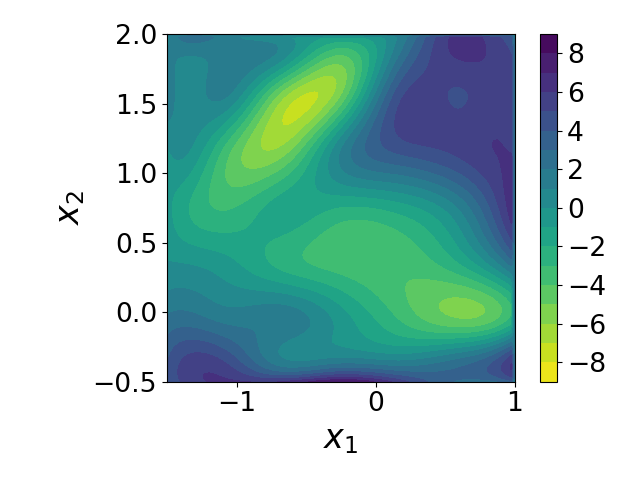
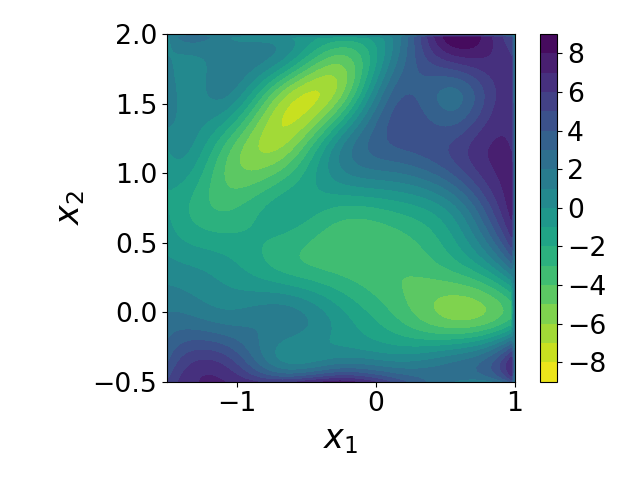
make an animation of learned Muller potential over training steps

diff --git a/examples/MullerPotential/script/main.py b/examples/MullerPotential/script/main.py
@@ -173,9 +173,11 @@ x1_noise = torch.rand(n_noise) * (x1_max - x1_min) + x1_min
 x2_noise = torch.rand(n_noise) * (x2_max - x2_min) + x2_min
 x_noise = torch.stack((x1_noise, x2_noise), dim=1)
 
-#### learn an energy function
-import PC
 
+#### learn an energy function
+import sys
+sys.path.append("../../")
+import pccg
 
 def compute_2d_cubic_spline_basis(
     x, M1=10, M2=10, x1_limits=(x1_min, x1_max), x2_limits=(x2_min, x2_max)
@@ -196,8 +198,8 @@ def compute_2d_cubic_spline_basis(
     boundary_knots_x1 = torch.tensor([x1_min, x1_max])
     boundary_knots_x2 = torch.tensor([x2_min, x2_max])
 
-    basis_x1 = PC.spline.bs(x[:, 0], knots_x1, boundary_knots_x1)
-    basis_x2 = PC.spline.bs(x[:, 1], knots_x2, boundary_knots_x2)
+    basis_x1 = pccg.spline.bs(x[:, 0], knots_x1, boundary_knots_x1)
+    basis_x2 = pccg.spline.bs(x[:, 1], knots_x2, boundary_knots_x2)
 
     basis = basis_x1[:, :, None] * basis_x2[:, None, :]
     basis = basis.reshape(-1, M1 * M2)
@@ -208,26 +210,32 @@ basis_data = compute_2d_cubic_spline_basis(x_data)
 basis_noise = compute_2d_cubic_spline_basis(x_noise)
 log_q_data = compute_log_q(x_data)
 log_q_noise = compute_log_q(x_noise)
-theta, dF = PC.NCE(log_q_noise, log_q_data, basis_noise, basis_data)
 
-#### plot the learned energy function
-basis_grid = compute_2d_cubic_spline_basis(x_grid)
-U_grid = torch.matmul(basis_grid, theta)
-U_grid = U_grid.reshape((grid_size, grid_size))
 
-U_grid = U_grid - U_grid.min() + U.min()
-U_grid[U_grid > 9] = 9
-fig, axes = plt.subplots()
-plt.contourf(
-    U_grid.T.numpy(),
-    levels=np.linspace(-9, 9, 19),
-    extent=(x1_min, x1_max, x2_min, x2_max),
-    cmap=cm.viridis_r,
-)
-plt.xlabel(r"$x_1$", fontsize=24)
-plt.ylabel(r"$x_2$", fontsize=24)
-plt.colorbar()
-axes.set_aspect("equal")
-plt.tight_layout()
-plt.savefig("./data/learned_potential.png")
-plt.close()
+for max_iter in range(0, 30, 1):
+    print("max_iter = ", max_iter, flush=True)
+    theta, dF = pccg.NCE(log_q_noise, log_q_data, basis_noise, basis_data,
+                        options = {"maxiter": max_iter})
+
+    #### plot the learned energy function
+    basis_grid = compute_2d_cubic_spline_basis(x_grid)
+    U_grid = torch.matmul(basis_grid, theta)
+    U_grid = U_grid.reshape((grid_size, grid_size))
+
+    U_grid = U_grid - U_grid.min() + U.min()
+    U_grid[U_grid > 9] = 9
+    fig, axes = plt.subplots()
+    plt.contourf(
+        U_grid.T.numpy(),
+        levels=np.linspace(-9, 9, 19),
+        extent=(x1_min, x1_max, x2_min, x2_max),
+        cmap=cm.viridis_r,
+    )
+    plt.xlabel(r"$x_1$", fontsize=24)
+    plt.ylabel(r"$x_2$", fontsize=24)
+    plt.colorbar()
+    axes.set_aspect("equal")
+    plt.tight_layout()
+    os.makedirs("./data/learned_potential", exist_ok=True)
+    plt.savefig(f"./data/learned_potential/iter_{max_iter:0>3}.png")
+    plt.close()

diff --git a/pccg/optimize/nce.py b/pccg/optimize/nce.py
@@ -6,6 +6,7 @@ from collections import namedtuple
 def NCE(log_q_noise, log_q_data,
         basis_noise, basis_data,
         verbose = True,
+        options={"maxiter": 1000}
 ):
 
     """
@@ -64,9 +65,12 @@ def NCE(log_q_noise, log_q_data,
 
     loss, grad = compute_loss_and_grad(x_init)
 
-    options={"disp": verbose, "gtol": 1e-6}
+    _options ={"disp": verbose, "gtol": 1e-6}
+    for k,v in options.items():
+        _options[k] = v
+
     results = optimize.minimize(
-        compute_loss_and_grad, x_init, jac=True, method="L-BFGS-B", options=options
+        compute_loss_and_grad, x_init, jac=True, method="L-BFGS-B", options=_options
     )
     x = results["x"]
 
